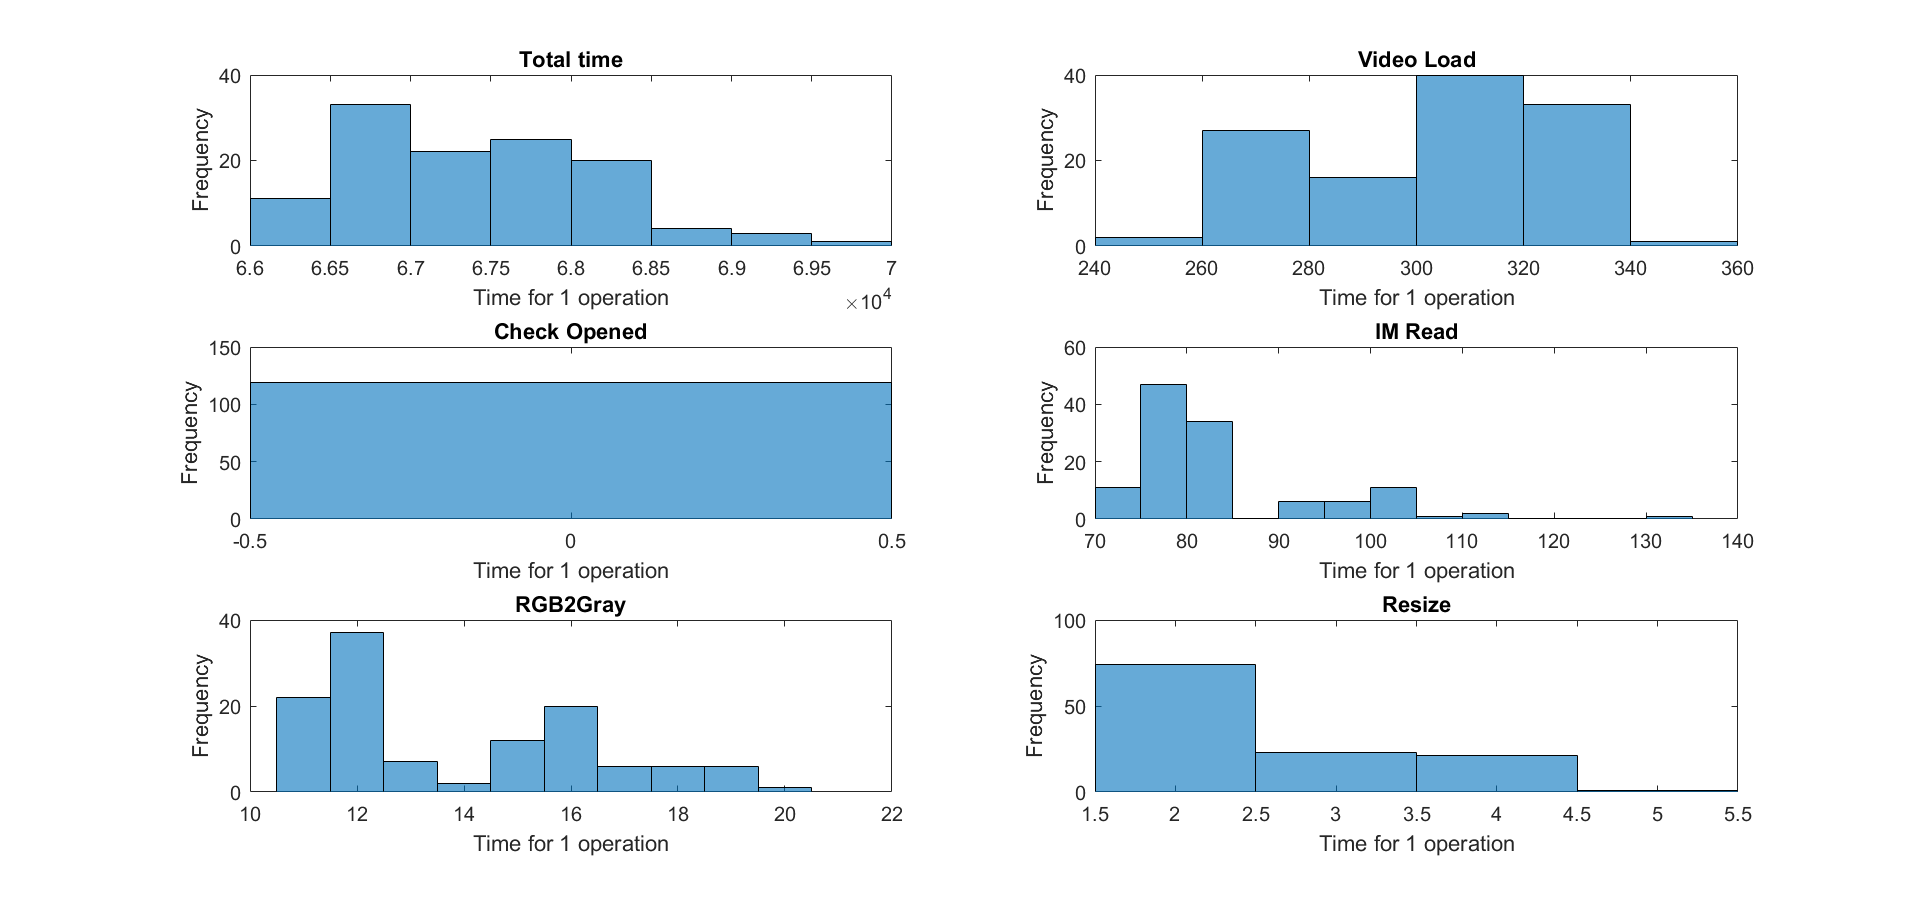
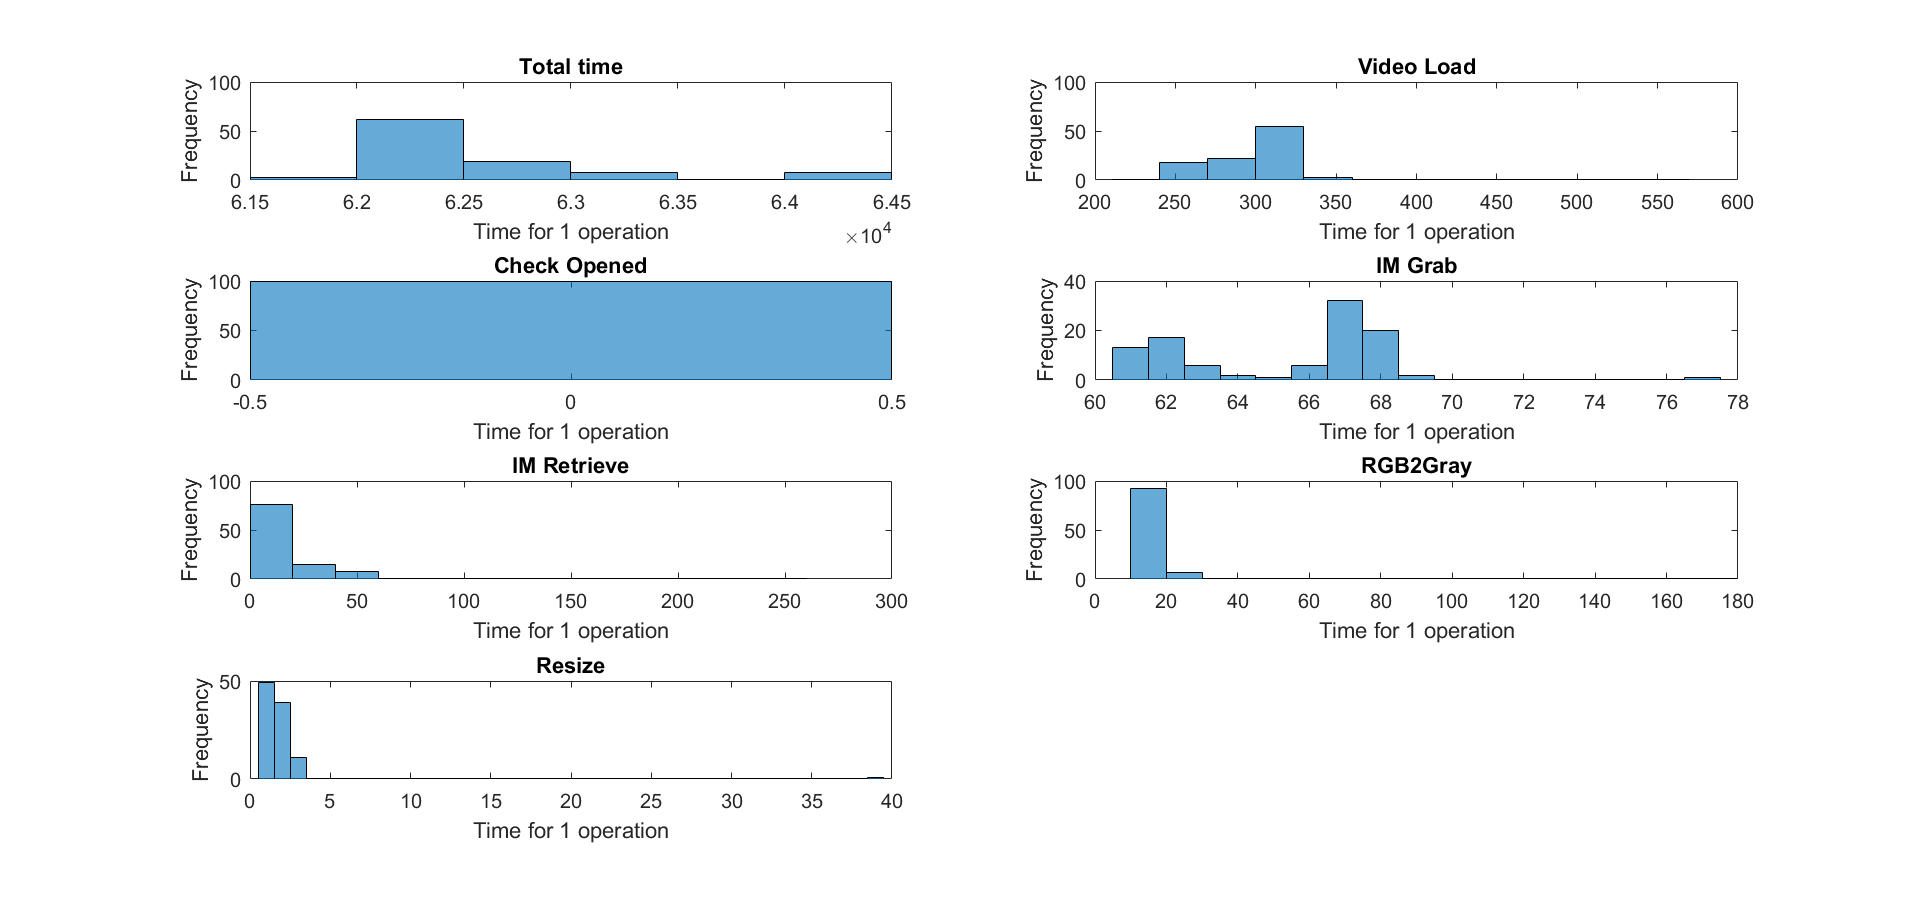
Updated plots+hist for 400x400 with no frame skip: 100 iterations

diff --git a/sys_perf/plot_data.m b/sys_perf/plot_data.m
@@ -3,10 +3,10 @@ close all;
 clc;
 
 %Log file format (all values in milliseconds)
-%Total time, Video Load, Open Chk, IM Read, RGB 2 GRAY, Resize, 
-%66913       275         0         79       15          3
+%Total time, Video Load, Open Chk, IM Grab, IM Retrieve, RGB 2 GRAY, Resize, 
+%62434      240         0           60      11          9           1
 
-num_data_per_iter = 6; % Teel the number of data points collected for each iteration
+num_data_per_iter = 7; % Teel the number of data points collected for each iteration
 num_frame_skips = 0; %[5 10 20 50 100 200]
 path = 'C:\Users\Rohit\Documents\GitHub\video-query\sys_perf\logs\log_no_imshow_cache_clr.txt';
 %path = 'C:\Users\Rohit\Documents\GitHub\video-query\sys_perf\logs\log_no_imshow.txt';
@@ -29,10 +29,10 @@ for i=1:tot_iters
     end
 end
 
-plot_titles = {'Total time', 'Video Load', 'Check Opened', 'IM Read', 'RGB2Gray', 'Resize'};
+plot_titles = {'Total time', 'Video Load', 'Check Opened', 'IM Grab', 'IM Retrieve', 'RGB2Gray', 'Resize'};
 figure;
 for j=1:size(data_matrix,1)
-    subplot(3,2,j);
+    subplot(4,2,j);
     %plot(data_matrix(j,2:end));
     %xlabel('Iteration #');
     %ylabel('Elapsed time');
